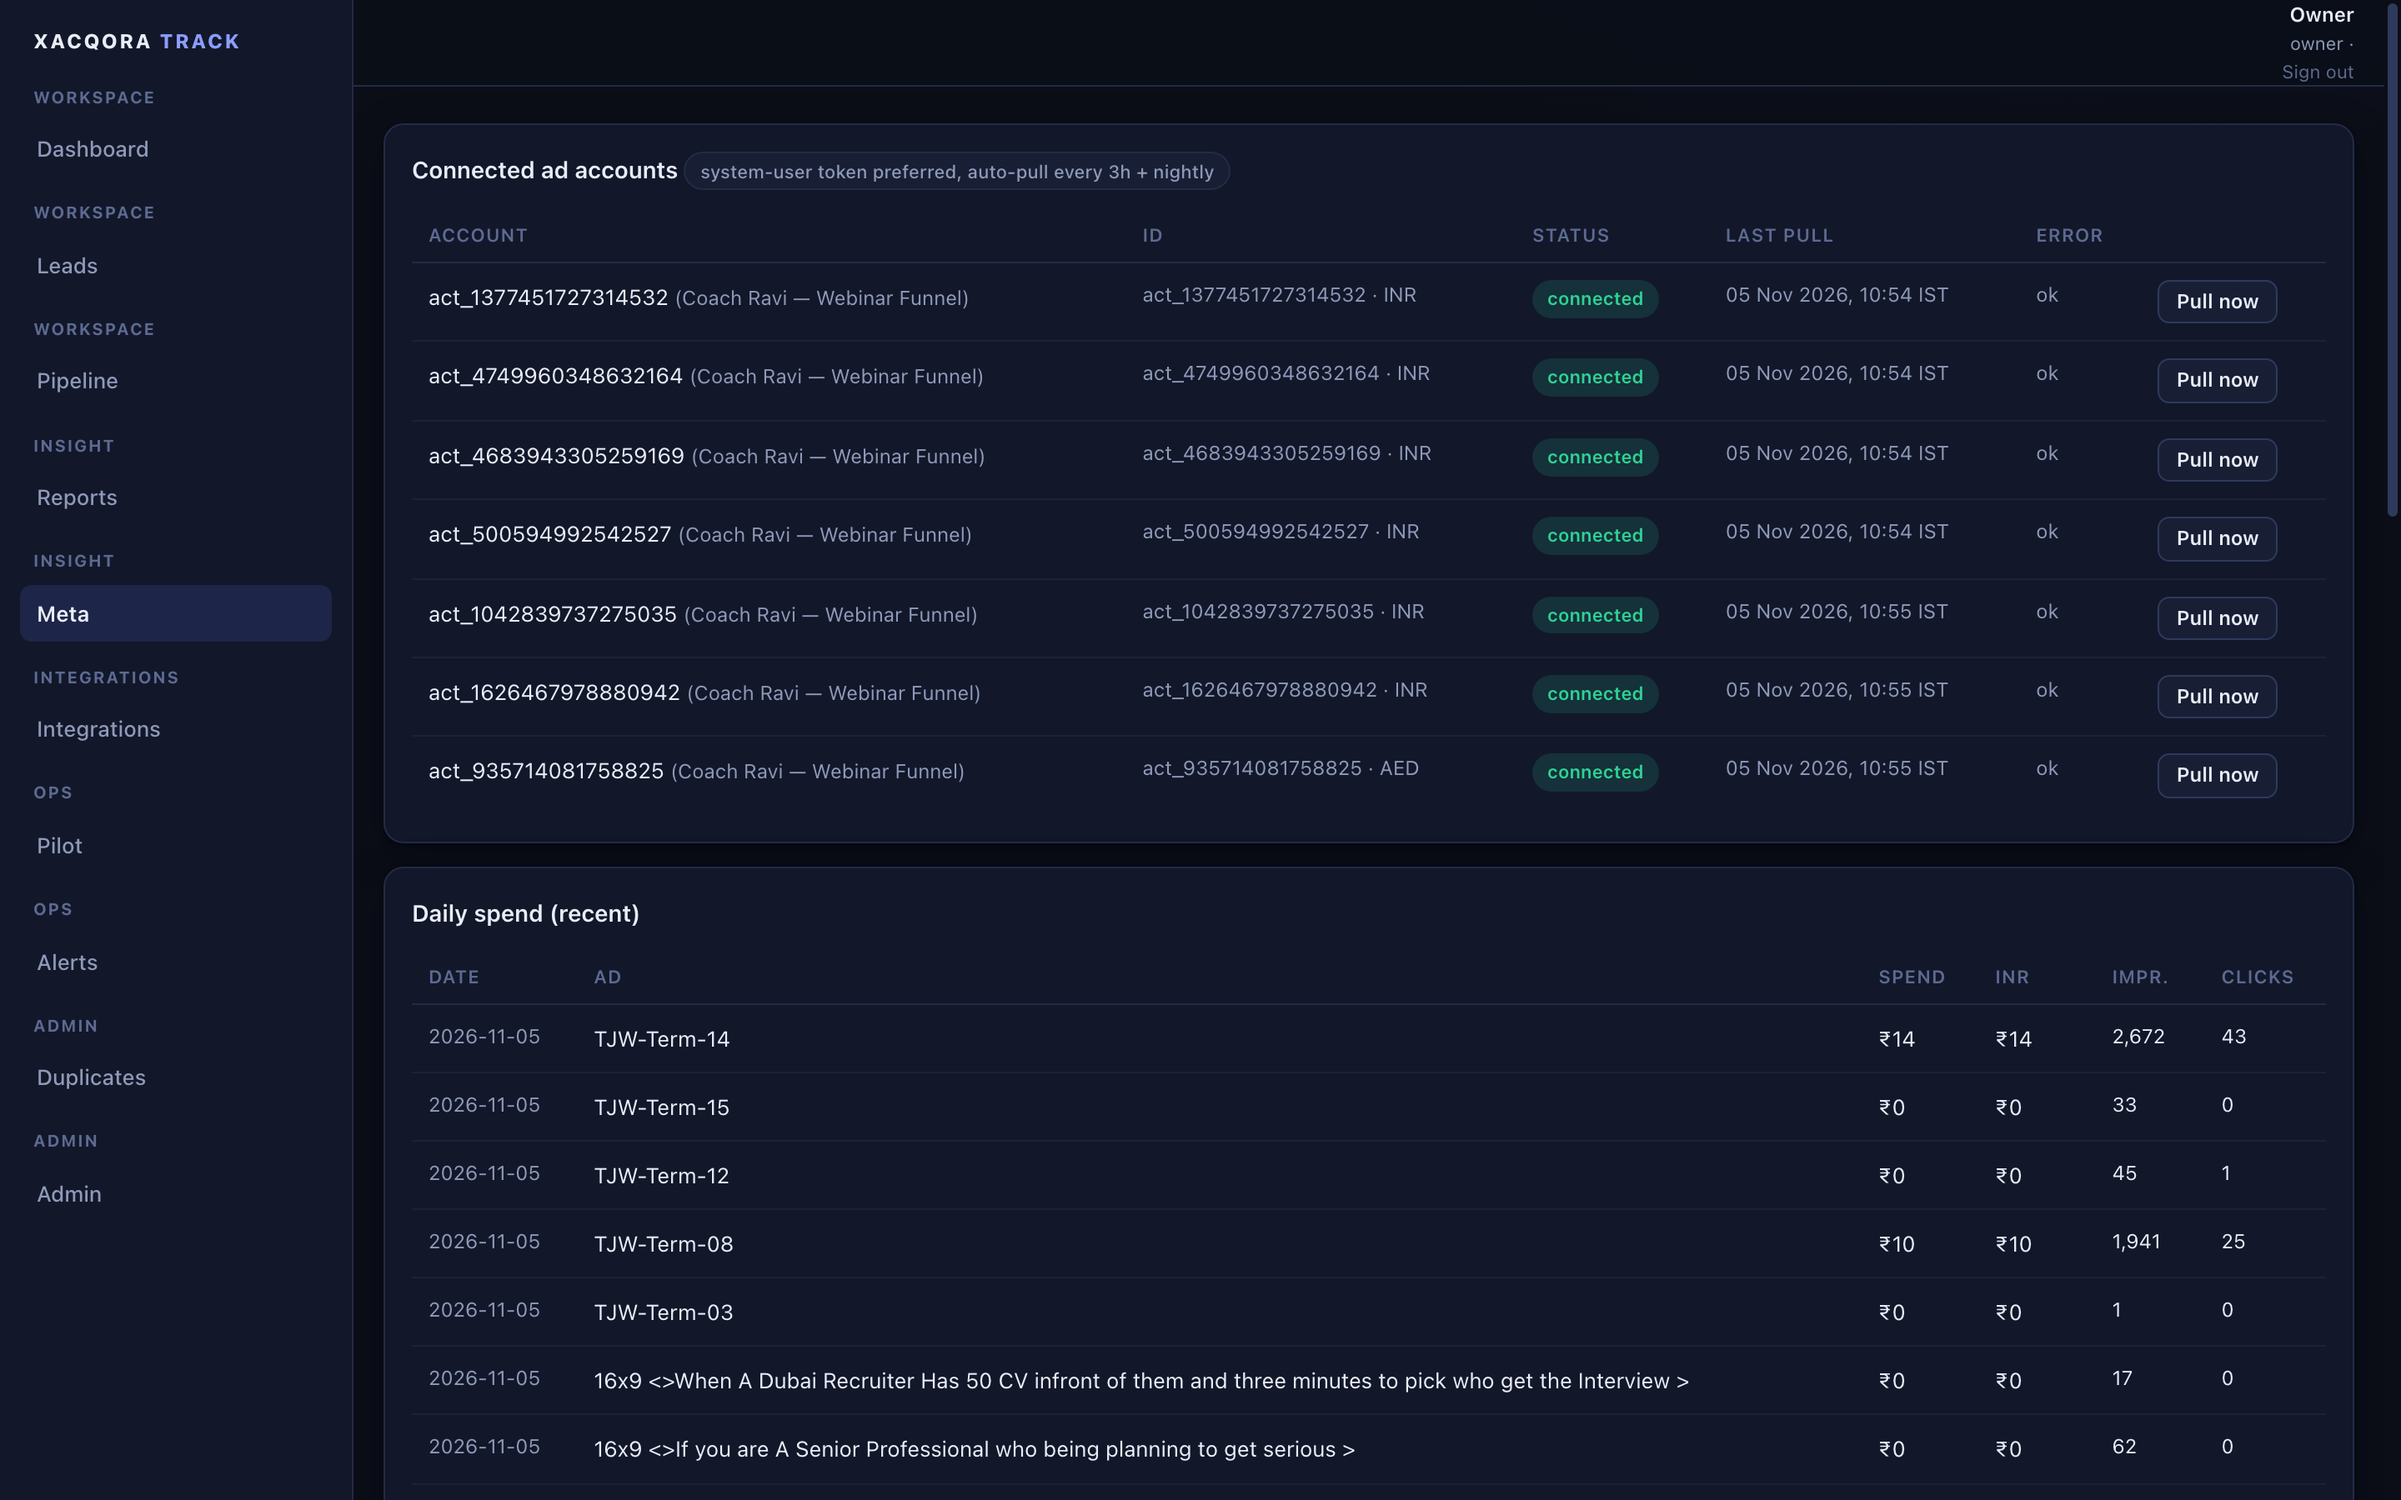
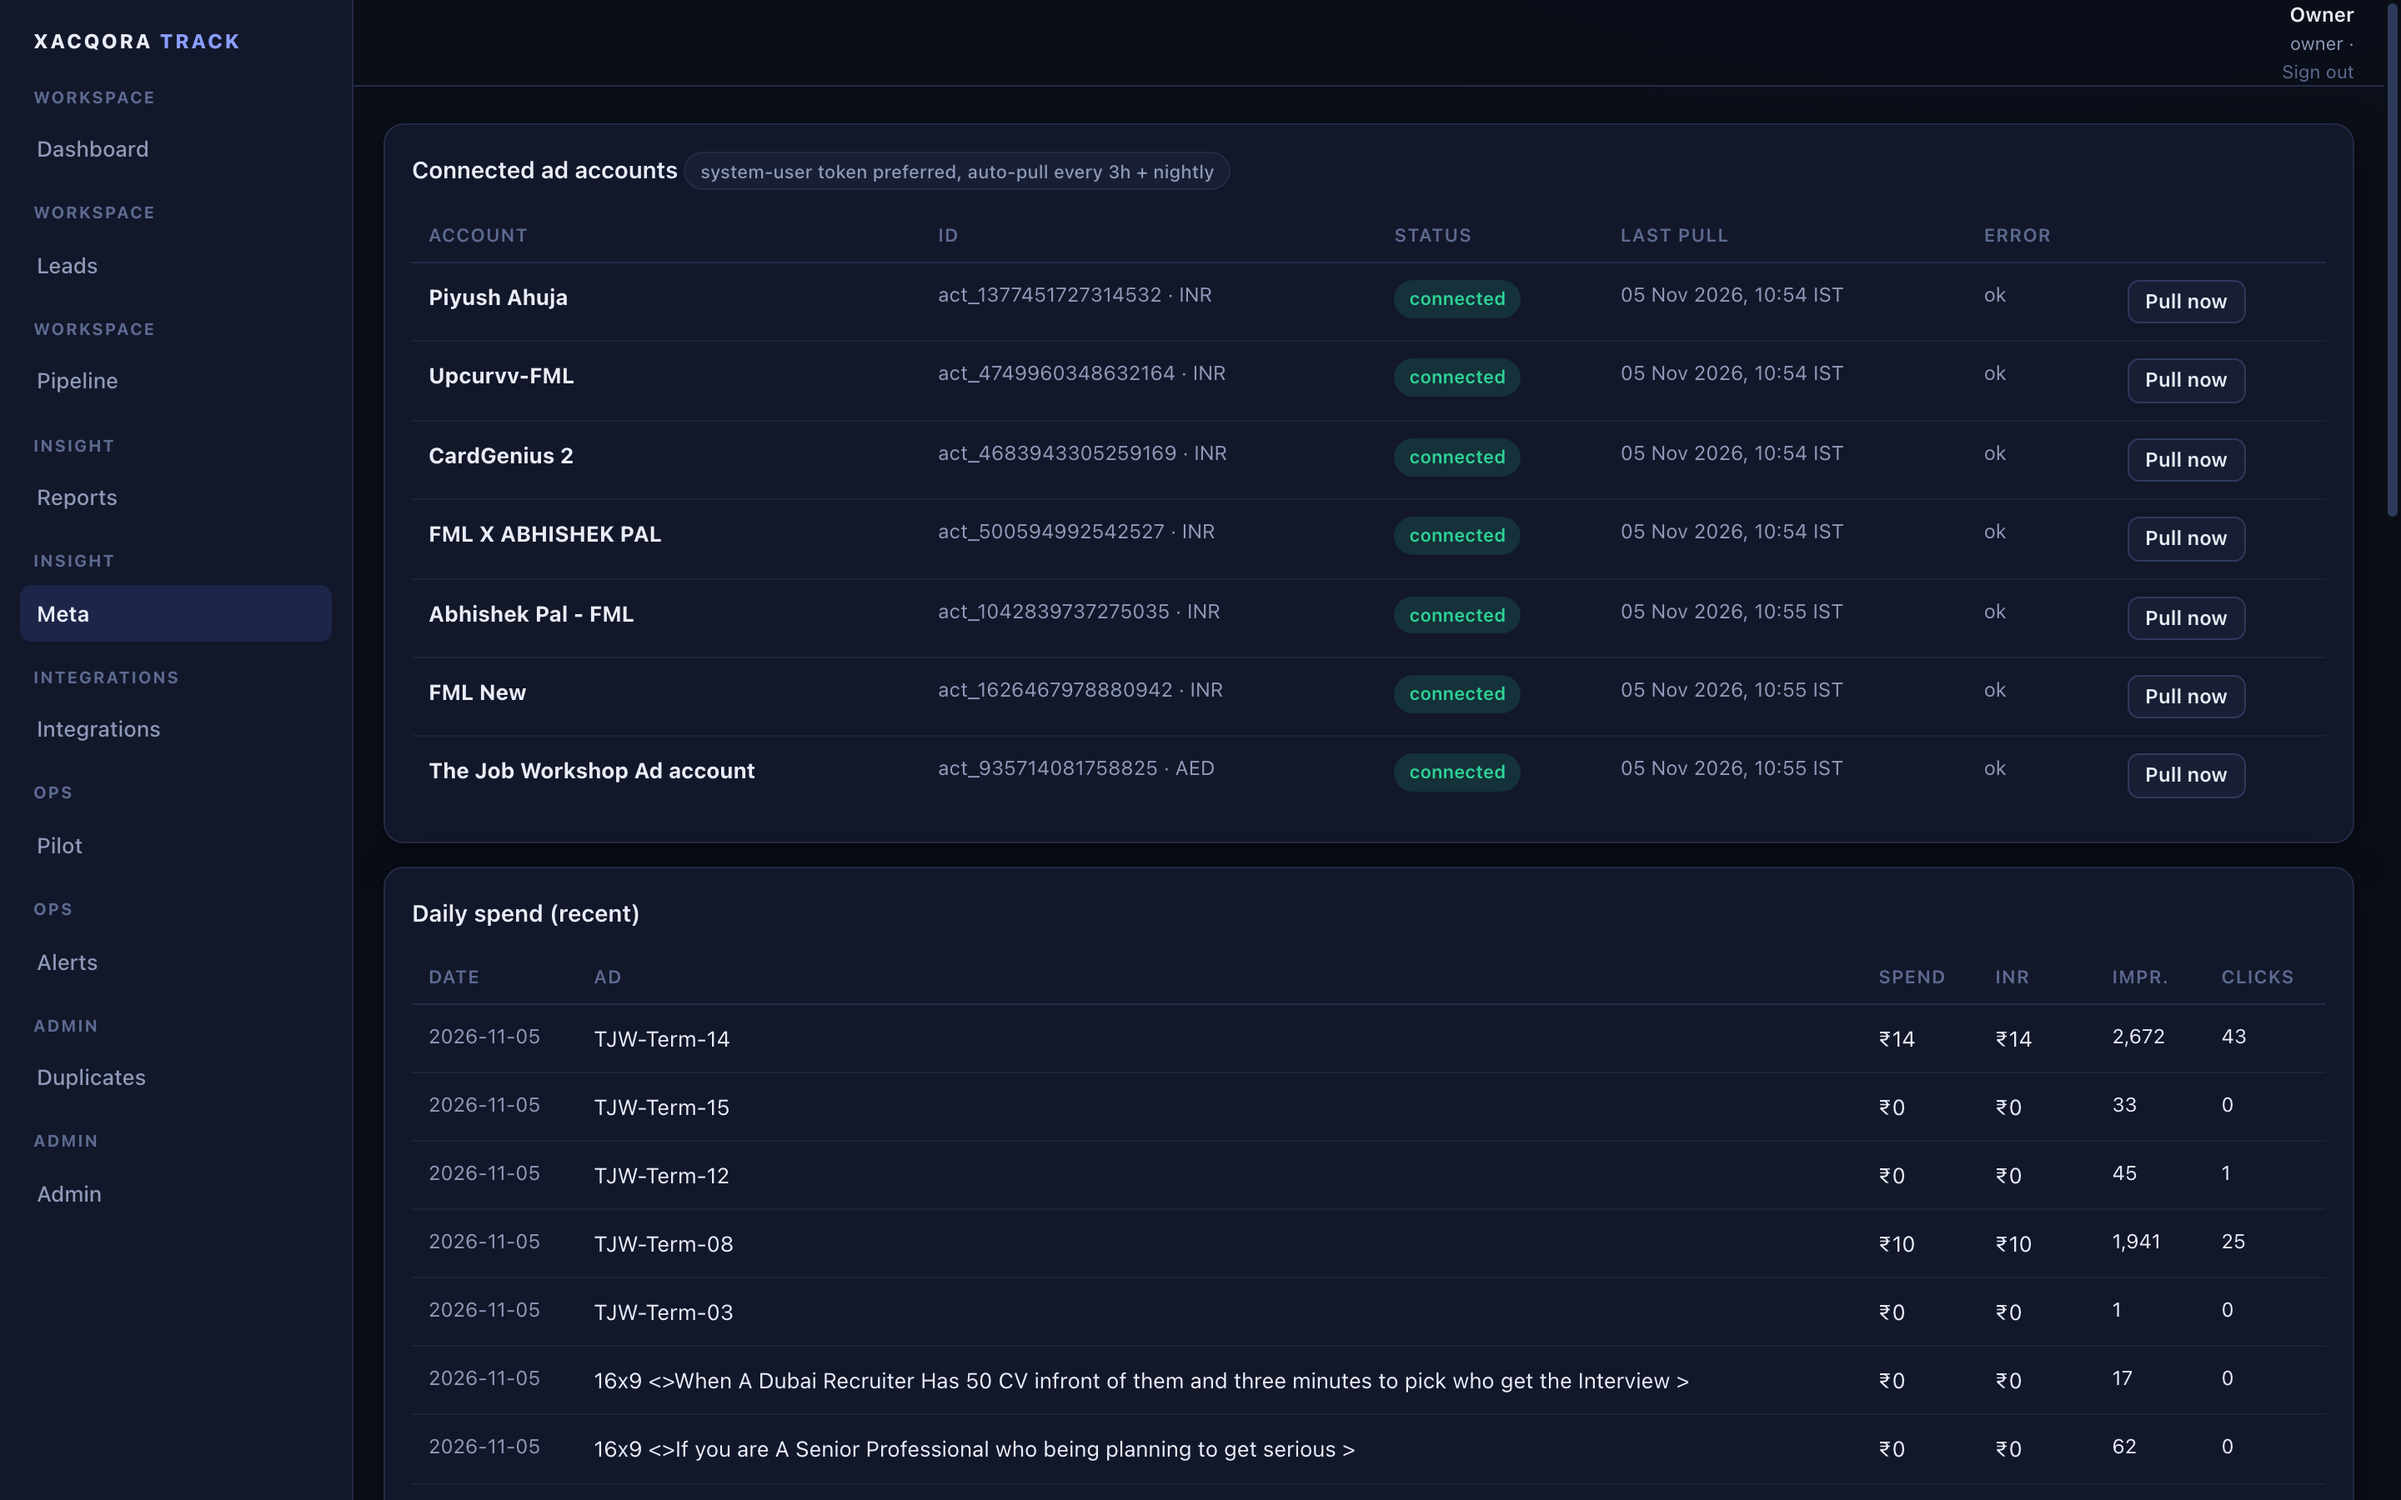
v10 follow-on: real ad-account names persisted + displayed
Closes the last gap in "sirf real Meta accounts + unke real naam". The
dashboard switcher + Meta hub showed the raw ad-account IDs
(act_1377...) where the real Meta display name should be. Root cause:
the metalive bootstrap created the rows with name = ad_account_id (no
per-account name in .env), and the live pull fetched AdAccount.name but
dropped it on return, so it was never written back.

- liveapi.js runLiveMetaPull now returns accountName (the real
  AdAccount.name; the /acct call already requested `name` with currency).
- meta.js: after each live pull, persist the real name onto
  meta_ad_account (only when Meta returns one that differs from the id),
  so every future pull keeps the name current.
- scripts/meta-name-sync.js (new one-shot): for pre-existing accounts,
  fetch each act_ account's name+currency with its own encrypted token and
  write them back. Idempotent + offline-safe; the token is never printed.
  Renamed all 7 dev accounts to their real Meta names.
- screens.js meta.html: the account row now leads with the real name
  (ID + currency as the muted sub-line) and drops the seed client-name
  bracket that read as "dummy" data.
- Re-captured docs/screenshots/v10-live-*.png with the real names.

Both engines green (reports/datamode/metalive/security/spa suites + the
scratch-DB sweep, SQLite + Postgres; sweep 0 failures).

.env (real token) is gitignored and never committed, per the working rule.

diff --git a/scripts/meta-name-sync.js b/scripts/meta-name-sync.js
@@ -1,0 +1,52 @@
+#!/usr/bin/env node
+// v10 one-shot: fetch each REAL ad account's Meta display name (+ billing
+// currency) and persist it onto meta_ad_account. The env->DB bootstrap
+// (server/lib/metalive.js) created accounts with `name = ad_account_id`
+// (the raw id) because META_AD_ACCOUNT_NAME was unset, and the pull only
+// started storing the real name in v10 — so pre-existing rows still show the
+// id on the dashboard switcher + Meta hub. This script reads each account's
+// own encrypted token, calls AdAccount?fields=name,currency, and writes the
+// real name back. Idempotent + offline-safe: no token / no network = it
+// prints and skips, never touches the row. The token is never printed.
+//
+//   node scripts/meta-name-sync.js                 # SQLite dev DB
+//   DATABASE_URL=... node scripts/meta-name-sync.js  # Postgres
+const { open, makeTx } = require('../server/db');
+const sec = require('../server/lib/security');
+require('../server/lib/env').loadEnvFile(); // same key resolution as the server
+
+(async () => {
+  const db = open();
+  const tx = makeTx(db);
+  const accounts = tx.all(`SELECT id, ad_account_id, name, token, currency
+    FROM meta_ad_account WHERE ad_account_id LIKE 'act_%' ORDER BY ad_account_id`);
+  if (!accounts.length) { console.log('[meta-name-sync] no real (act_) ad accounts found — nothing to do.'); if (db.close) db.close(); return; }
+
+  console.log(`[meta-name-sync] ${accounts.length} real ad account(s); fetching AdAccount name+currency per account`);
+  let changed = 0, skipped = 0, failed = 0;
+  for (const a of accounts) {
+    const token = sec.decryptSecret(a.token || '');
+    if (!token || token === 'MOCK') { console.log(`  skip ${a.ad_account_id} (no usable encrypted token)`); skipped++; continue; }
+    try {
+      const r = await fetch(`https://graph.facebook.com/v19.0/${a.ad_account_id}?fields=name,currency&access_token=${encodeURIComponent(token)}`);
+      const b = await r.json().catch(() => ({}));
+      if (!r.ok) { console.log(`  FAIL ${a.ad_account_id}: meta ${r.status} ${b.error && b.error.message || ''}`); failed++; continue; }
+      const name = b.name ? String(b.name).trim() : '';
+      const cur = b.currency ? String(b.currency).toUpperCase() : null;
+      if (name && name !== a.ad_account_id) {
+        tx.run(`UPDATE meta_ad_account SET name=? WHERE id=?`, name, a.id);
+        changed++;
+        console.log(`  ${a.ad_account_id}: "${a.name}" -> "${name}"` + (cur && !a.currency ? `  currency -> ${cur}` : ''));
+      } else {
+        skipped++;
+        console.log(`  ${a.ad_account_id}: name already set ("${a.name}")`);
+      }
+      if (cur && !a.currency) tx.run(`UPDATE meta_ad_account SET currency=? WHERE id=?`, cur, a.id);
+    } catch (e) {
+      failed++;
+      console.log(`  ERROR ${a.ad_account_id}: ${e.message}`);
+    }
+  }
+  if (db.close) db.close();
+  console.log(`[meta-name-sync] done: ${changed} renamed, ${skipped} unchanged, ${failed} failed`);
+})();

diff --git a/server/lib/meta.js b/server/lib/meta.js
@@ -47,6 +47,12 @@ async function runMetaPull(tx, payload) {
     // record the account's billing currency (KPI cards: "₹ + currency"); a
     // null just leaves the existing value untouched.
     if (data.currency) tx.run(`UPDATE meta_ad_account SET currency=? WHERE ad_account_id=? AND currency IS NULL`, data.currency, ad_account_id);
+    // v10: record the account's REAL Meta display name (AdAccount.name) so the
+    // switcher + Meta hub show the operator's actual account names, not the raw
+    // id the bootstrap fell back to. Only overwrite with a name Meta returns
+    // (never the id echoed back).
+    if (data.accountName && data.accountName !== ad_account_id)
+      tx.run(`UPDATE meta_ad_account SET name=? WHERE ad_account_id=?`, data.accountName, ad_account_id);
     tx.run(`UPDATE meta_ad_account SET last_pull_at=?, last_error=NULL WHERE ad_account_id=?`, now, ad_account_id);
   } catch (e) {
     // PRD risk rule: alert on failures

diff --git a/server/screens.js b/server/screens.js
@@ -560,7 +560,7 @@ function meta(db, user, p) {
   const spendEx = dm.spendNotDemo(dataMode, 's');
   const accounts = tx.all(`SELECT a.*, c.name client_name FROM meta_ad_account a LEFT JOIN client c ON c.id=a.client_id ${metaEx ? `WHERE ${metaEx}` : ''}`);
   const accRows = accounts.map((a) => `<tr>
-    <td>${S.esc(a.name)} <span class="small muted">(${S.esc(a.client_name || '')})</span></td>
+    <td><b>${S.esc(a.name || a.ad_account_id)}</b></td>
     <td class="small muted">${S.esc(a.ad_account_id)}${a.currency ? ` · ${S.esc(a.currency)}` : ''}</td>
     <td><span class="pill ${a.status === 'connected' ? 'g' : 'o'}">${S.esc(a.status)}</span></td>
     <td class="small muted">${S.fmtDT(a.last_pull_at)}</td>

diff --git a/server/lib/liveapi.js b/server/lib/liveapi.js
@@ -180,6 +180,10 @@ async function runLiveMetaPull(acc, { from, to, token, signal }) {
   return {
     campaigns: tree.campaigns, adsets: tree.adsets, ads: tree.ads, spend,
     currency: currency && currency.currency ? String(currency.currency).toUpperCase() : null,
+    // the ad account's REAL display name (AdAccount.name) — Arpit's v10
+    // requirement: the switcher + Meta hub must show his real account names,
+    // not the raw id. The /{acct} call already fetches `name` (line above).
+    accountName: currency && currency.name ? String(currency.name).trim() || null : null,
   };
 }
 

diff --git a/CHANGELOG.md b/CHANGELOG.md
@@ -2,6 +2,35 @@
 
 Every completed task lands here so the next AI session has context. Newest first.
 
+## 2026-11-05 (v10 follow-on — real ad-account NAMES persisted + displayed)
+
+Closes the last gap in "sirf real Meta accounts + unke **real naam**": the
+switcher + Meta hub were showing the raw ad-account **IDs** (`act_1377…`)
+where Arpit's real account names (Meta shows e.g. "Redanza Skin Care")
+should be. Root cause: the `metalive` bootstrap created the rows with
+`name = ad_account_id` (the `.env` had no per-account name), and the live
+pull fetched `AdAccount.name` but **dropped it** on return, so it was never
+written back.
+
+- **`server/lib/liveapi.js → runLiveMetaPull`:** now returns `accountName`
+  (the real `AdAccount.name`; the `/acct` call already requested `name`).
+- **`server/lib/meta.js`:** after each live pull, persists the real name
+  onto `meta_ad_account` (only when Meta returns one and it differs from the
+  id) — so every future pull keeps the name current.
+- **`scripts/meta-name-sync.js` (new one-shot):** for accounts created
+  before this fix, fetch each `act_…` account's name+currency with its own
+  encrypted token and write them back. Idempotent, offline-safe, token never
+  printed. On the dev DB it renamed all 7: Piyush Ahuja, Abhishek Pal - FML,
+  FML New, CardGenius 2, Upcurvv-FML, FML X ABHISHEK PAL, The Job Workshop.
+- **`server/screens.js → meta.html`:** the account row now leads with the
+  real name (ID + currency as the muted sub-line) and drops the seed
+  client-name bracket that read as "dummy".
+- Re-captured the 5 `docs/screenshots/v10-live-*.png` — dashboard switcher
+  and Meta hub now show the real account names.
+
+Both engines still green (reports / datamode / metalive / security / spa
+suites + the scratch-DB sweep, SQLite + Postgres; sweep 0 failures).
+
 ## 2026-11-05 (v10 — real-data guarantee: test artifacts gone for good + live-only UI)
 
 Arpit's v10 requirement: the frontend must show **only his real Meta ad
